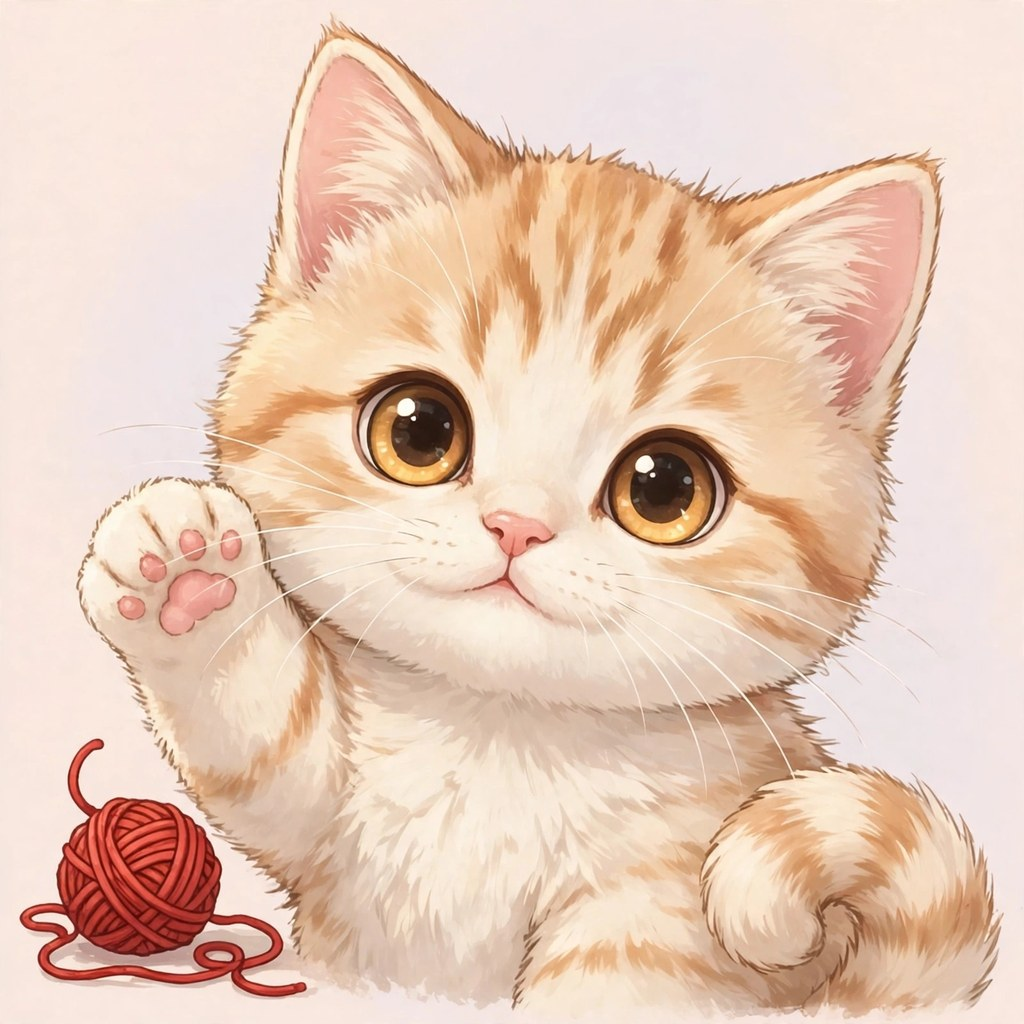
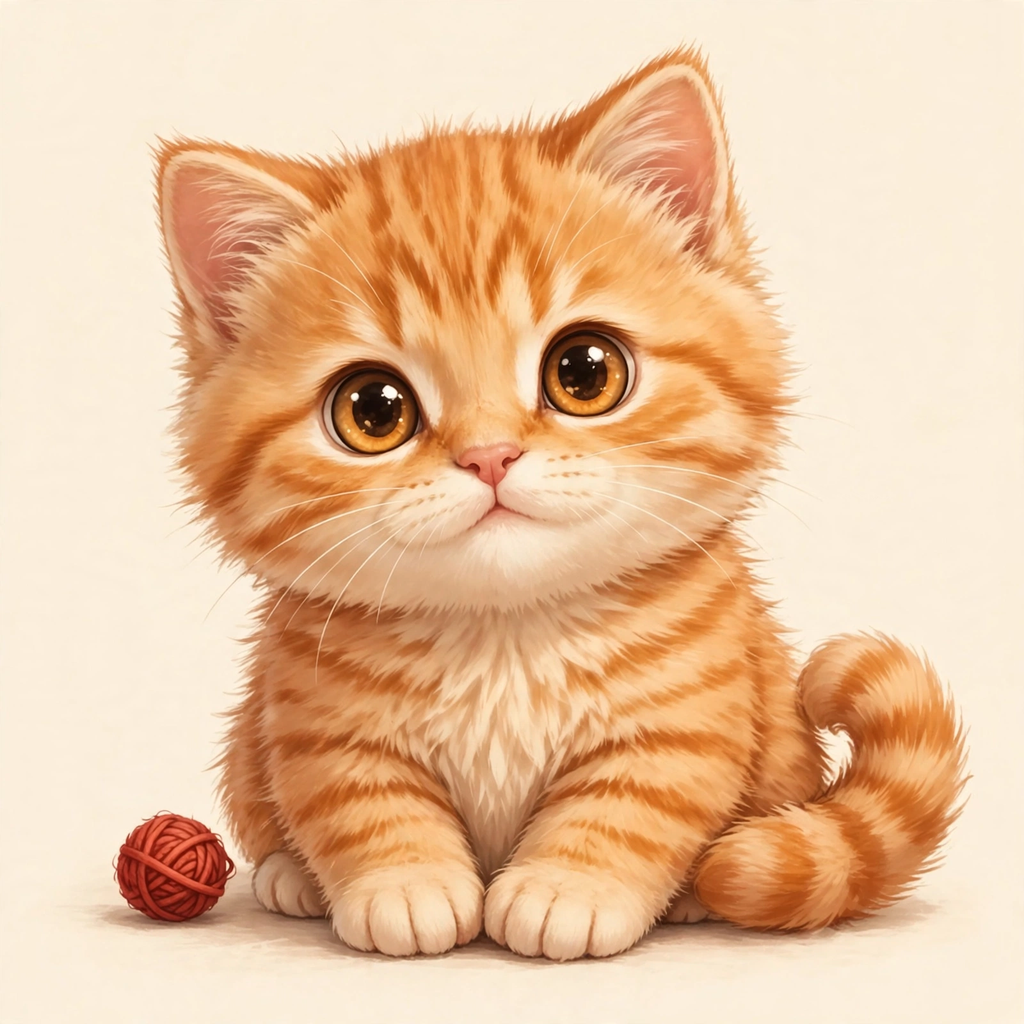
Cutest cat entry: orange tabby kitten, 1024x1024 PNG

diff --git a/main.py b/main.py
@@ -1,0 +1,8 @@
+#!/usr/bin/env python3
+"""Draw the cutest cat: writes the entry image to /output/entry.png."""
+import os, shutil
+SRC = os.path.join(os.path.dirname(os.path.abspath(__file__)), "entry.png")
+DST = "/output/entry.png"
+os.makedirs("/output", exist_ok=True)
+shutil.copyfile(SRC, DST)
+print("wrote", DST)

diff --git a/README.md b/README.md
@@ -1,0 +1,7 @@
+# Draw the cutest cat — make.fun bounty (cutest-cat-01)
+
+Entry for the make.fun "Draw the cutest cat" bounty. The program copies
+`entry.png` (an original cute orange tabby kitten illustration) to
+`/output/entry.png`, where the make.fun judge scores it.
+
+Run: `python3 main.py`
